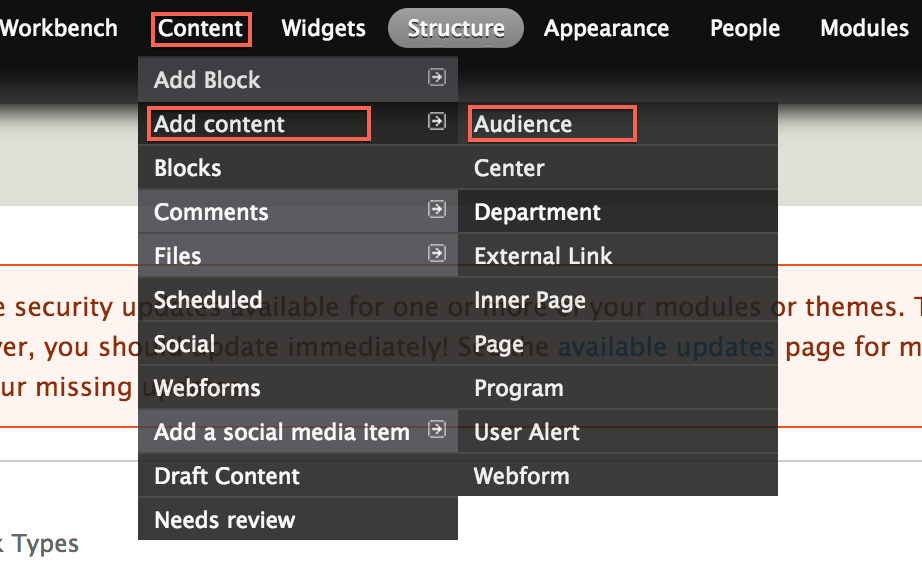
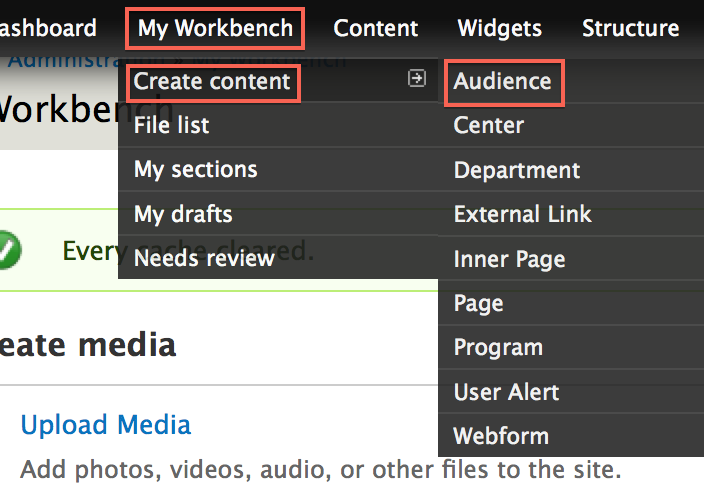
Add center and inner page docs.

diff --git a/isu_college/markdown/content-center.md b/isu_college/markdown/content-center.md
@@ -1,46 +1,46 @@
 <img class="logo" src="../../global_assets/images/IXM-Transparent-Vertical.jpg" style="float:right; margin:-10px 15px 0 0;" height="90" />
 <img class="logo" src="../assets/images/isu_logo.png" alt="Indiana State University logo" />
 
-# Departments
+# Centers
 
-* [What are departments?](#what-are-departments)
-* [Creating departments](#creating-departments)
-* [Updating departments](#updating-departments)
-* [Deleting departments](#deleting-departments)
-* [Changing department layouts](#changing-department-layouts)
-* [Adding widgets to departments](#adding-widgets-to-departments)
+* [What are centers?](#what-are-centers)
+* [Creating centers](#creating-centers)
+* [Updating centers](#updating-centers)
+* [Deleting centers](#deleting-centers)
+* [Changing center layouts](#changing-center-layouts)
+* [Adding widgets to centers](#adding-widgets-to-centers)
 
-## What are departments?
+## What are centers?
 
-Departments are a **content type** that represent the departments inside your college. 
+centers are a **content type** that represent the centers inside your college. 
 
-## Creating departments
+## Creating centers
 
-### 1. Open the 'Create Department' form
+### 1. Open the 'Create center' form
 In the Administration Menu, navigate to:
 	
-	My Workbench > Create content > Department
+	My Workbench > Create content > Center
 		
-![Add a dept](../assets/images/DeptAdd.png "Add a dept")
+![Add a center](../assets/images/CenterAdd.png "Add a center")
 
 ### 2. Add a banner
 Add a new or existing [Banner Slide](banner_slides.md).
 
 ![Banner Add](../assets/images/BannerAdd.png "Banner Add")
 
-### 3. Choose a Department Name
-Enter the **Department Name** for this Department.
+### 3. Choose a center Name
+Enter the **Center Name** for this center.
 
-![Dept Name](../assets/images/DepartmentName.png "DeptName")
+![Dept Name](../assets/images/centerName.png "DeptName")
 
-### 4. Choose a Shortened Department Name
-Enter the **Shortened Department Name** for this Department.
+### 4. Choose a Shortened Center Name
+Enter the **Shortened Center Name** for this center.
 
-This short name will be used in the department's url and other areas around the site. 
+This short name will be used in the center's url and other areas around the site. 
 
-An **example** of a shortened name for the <i>Department of Biology</i> would be <i>Biology</i>
+An **example** of a shortened name for the <i>center of Biology</i> would be <i>Biology</i>
 
-![Dept Name](../assets/images/ShortenedDepartmentName.png "DeptName")
+![Center Name](../assets/images/ShortenedCenterName.png "CenterName")
 
 ### 5. Add copy
 Enter the **Description** of this page. This is the main copy of your page. 
@@ -71,29 +71,29 @@ Choose a **Menu link title** which will be the name of the menu item displayed.
 
 More detail on the remaining items in this section can be found in the [Menu settings]() documentation.
 
-## Updating departments
+## Updating centers
 
 ### 1. Create a new draft
 
-While viewing the department, click the **New draft** tab located at the top of the page.
+While viewing the center, click the **New draft** tab located at the top of the page.
 
 ![New Draft](../assets/images/NewDraft.png "New Draft")
 
 ### 2. Make changes
 
-Updating a department is very similar to [Creating a department](#creating-departments). Make the changes you want and then click the **Save** button located at the bottom of the form.
+Updating a center is very similar to [Creating a center](#creating-centers). Make the changes you want and then click the **Save** button located at the bottom of the form.
 
 ![Draft Save](../assets/images/DraftSave.png "Draft Save")
 
-## Deleting departments
+## Deleting centers
 
 ### 1. Open a new draft
 
-While viewing the department, click the **New draft** tab located at the top of the page.
+While viewing the center, click the **New draft** tab located at the top of the page.
 
 ![New Draft](../assets/images/NewDraft.png "New Draft")
 
-### 2. Delete the department
+### 2. Delete the center
 
 At the bottom of the **New draft** form, click **Delete**.
 
@@ -105,17 +105,17 @@ Confirm the deletion by clicking the **Delete** button.
 
 ![Delete Confirm](../assets/images/DraftDeleteConfirm.png "Delete Confirm")
 
-## Changing department layouts
+## Changing center layouts
 
 ### 1. Change the layout
 
-On the department you want to change the layout for, click the **Change this layout** button located at the bottom of the page.
+On the center you want to change the layout for, click the **Change this layout** button located at the bottom of the page.
 
 ![Layout Button](../assets/images/LayoutButton.png "Layout Button")
 
 ### 2. Choose a layout
 
-Select the layout you would like for this department.
+Select the layout you would like for this center.
 
 ![Layout Select](../assets/images/LayoutSelect.png "Layout Select")
 
@@ -125,11 +125,11 @@ Move content around and once you are satisfied, click **Save**.
 
 ![Layout Save](../assets/images/LayoutSave.png "Layout Save")
 
-## Adding widgets to departments
+## Adding widgets to centers
 
 ### 1. Customize the page
 
-On the department you want to customize, click the **Customize this page** button located at the bottom of the page.
+On the center you want to customize, click the **Customize this page** button located at the bottom of the page.
 
 ![Customize Button](../assets/images/CustomizeButton.png "Customize Button")
 

diff --git a/isu_college/markdown/content-inner-page.md b/isu_college/markdown/content-inner-page.md
@@ -1,0 +1,145 @@
+<img class="logo" src="../../global_assets/images/IXM-Transparent-Vertical.jpg" style="float:right; margin:-10px 15px 0 0;" height="90" />
+<img class="logo" src="../assets/images/isu_logo.png" alt="Indiana State University logo" />
+
+# Inner pages
+
+* [What are inner pages?](#what-are-inner pages)
+* [Creating inner pages](#creating-inner pages)
+* [Updating inner pages](#updating-inner pages)
+* [Deleting inner pages](#deleting-inner pages)
+* [Changing inner page layouts](#changing-inner page-layouts)
+* [Adding widgets to inner pages](#adding-widgets-to-inner pages)
+
+## What are inner pages?
+
+Inner pages are a **content type** similar to a page, but are considered child pages and therefore inherit properties of the content you are creating an inner page of.
+
+For example, if you were to create an **inner page** for a Department, the **inner page** would inherit the top banner and Department Menu of that Department. 
+
+## Creating inner pages
+
+### 1. Open the 'Create inner page' form
+In the Administration Menu, navigate to:
+	
+	My Workbench > Create content > Inner page
+		
+![Add a inner page](../assets/images/InnerPageAdd.png "Add a inner page")
+
+### 2. Select a banner
+A banner can be inherited since this will be an Inner Page, so you can choose to inherit the banner or add a new or existing [Banner Slide](banner_slides.md)
+
+For a more detailed tutorial on banners, see the [Banner Slide](banner_slides.md) tutorial.
+
+By default the banner is inherited. Should you not want to inherit the [Banner](banner_slides.md), you may add a new or existing banner. First, click on the **Inherit Banner** section and uncheck the **Inherit Banner** checkbox.
+
+![Banner Add](../assets/images/BannerInherit.png "Banner Add")
+
+Click on the **Banner** section and proceed to add a new or existing banner.
+
+![Banner Add](../assets/images/InnerPageBannerAdd.png "Banner Add")
+
+### 3. Choose a title
+Enter the **Title** for this inner page.
+
+![inner page Title](../assets/images/inner pageTitle.png "inner page Title")
+
+### 4. Add copy
+Enter the **Body** of this department. This is the main copy of your inner page. 
+
+![inner page Body](../assets/images/inner pageBody.png "inner page Body")
+
+Using the editor toolbar, you can add images or format your copy.
+
+![inner page Body Toolbar](../assets/images/inner pageBodyToolbar.png "inner page Body Toolbar")
+
+### 5. Add an image
+
+Select an **Image** for this inner page.
+
+![inner page Image](../assets/images/inner pageImage.png "inner page Image")
+
+### 6. Menu settings
+
+Choose a **Menu link title** which will be the name of the menu item displayed.
+
+![Menu Link Title](../assets/images/MenuLinkTitle.png "Menu Link Title")
+
+The **Parent item** is the location where this inner page will be found in the menu. The **Parent item** must be content such as a Department, Page, Program or Center. 
+
+![Menu Parent](../assets/images/MenuParent.png "Menu Parent")
+
+More detail on the remaining items in this section can be found in the [Menu settings]() documentation.
+
+## Updating inner pages
+
+### 1. Create a new draft
+
+While viewing a inner page, click the **New draft** tab located at the top of the inner page.
+
+![New Draft](../assets/images/NewDraft.png "New Draft")
+
+### 2. Make changes
+
+Updating a inner page is very similar to [Creating a inner page](#creating-inner pages). Make the changes you want and then click the **Save** button located at the bottom of the inner page.
+
+![Draft Save](../assets/images/DraftSave.png "Draft Save")
+
+## Deleting inner pages
+
+### 1. Open a new draft
+
+While viewing a inner page, click the **New draft** tab located at the top of the inner page.
+
+![New Draft](../assets/images/NewDraft.png "New Draft")
+
+### 2. Delete the inner page
+
+At the bottom of the **New draft** form, click **Delete**.
+
+![Draft Delete](../assets/images/DraftDelete.png "Draft Delete")
+
+### 3. Confirm deletion
+
+Confirm the deletion by clicking the **Delete** button.
+
+![Delete Confirm](../assets/images/DraftDeleteConfirm.png "Delete Confirm")
+
+## Changing inner page layouts
+
+### 1. Change the layout
+
+On the inner page you want to change the layout for, click the **Change this layout** button located at the bottom of the inner page.
+
+![Layout Button](../assets/images/LayoutButton.png "Layout Button")
+
+### 2. Choose a layout
+
+Select the layout you would like for this inner page.
+
+![Layout Select](../assets/images/LayoutSelect.png "Layout Select")
+
+### 3. Approve content locations
+
+Move content around and once you are satisfied, click **Save**. 
+
+![Layout Save](../assets/images/LayoutSave.png "Layout Save")
+
+## Adding widgets to inner pages
+
+### 1. Customize the inner page
+
+On the inner page you want to customize, click the **Customize this inner page** button located at the bottom of the inner page.
+
+![Customize Button](../assets/images/CustomizeButton.png "Customize Button")
+
+### 2. Update the content
+
+Make the changes that you want. 
+
+For a more detailed tutorial, please read [Customizing inner pages]()
+
+### 3. Save your changes
+
+Once you are satisfied with the changes, click **Save**. 
+
+![Customize Save](../assets/images/CustomizeSave.png "Customize Save")

diff --git a/isu_college/markdown/content-program.md b/isu_college/markdown/content-program.md
@@ -19,7 +19,7 @@ Programs are a **content type** that represent the programs/majors inside your c
 ### 1. Open the 'Create program' form
 In the Administration Menu, navigate to:
 	
-	Content > Add content > Program
+	My Workbench > Create content > Program
 		
 ![Add a program](../assets/images/ProgramAdd.png "Add a program")
 

diff --git a/isu_college/markdown/content-page.md b/isu_college/markdown/content-page.md
@@ -19,7 +19,7 @@ Pages are a **content type** that can be used to create a page on your site whic
 ### 1. Open the 'Create Page' form
 In the Administration Menu, navigate to:
 	
-	Content > Add content > Page
+	My Workbench > Create content > Page
 		
 ![Add a page](../assets/images/PageAdd.png "Add a page")
 

diff --git a/isu_college/markdown/content-audience.md b/isu_college/markdown/content-audience.md
@@ -23,7 +23,7 @@ Each audience created populates the Audience menu.
 ### 1. Open the 'Create audience' form
 In the Administration Menu, navigate to:
 	
-	Content > Add content > Audience
+	My Workbench > Create content > Audience
 		
 ![Add an audience](../assets/images/AudienceAdd.png "Add an audience")
 
